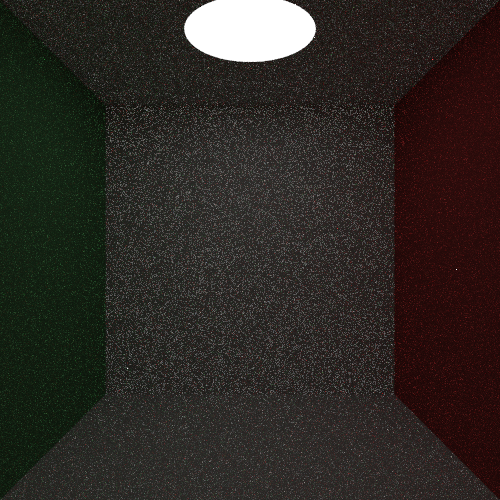
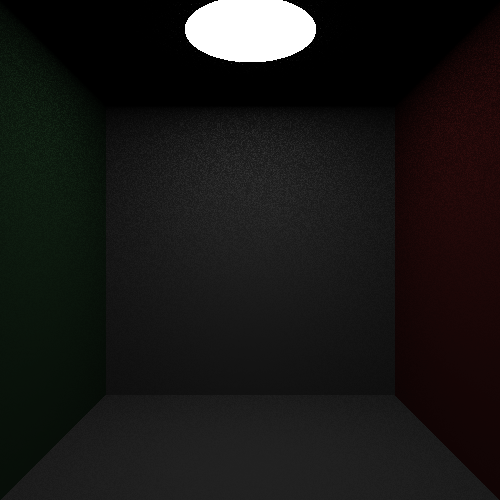
FIX: a pdf bug in direct integrator. wrongly using area pdf as solid angle pdf

diff --git a/src/integrator/path_integrator.rs b/src/integrator/path_integrator.rs
@@ -22,51 +22,44 @@ impl Integrator for PathIntegrator {
         let mut throughput = Spectrum::new(1.0, 1.0, 1.0);
         let mut radiance = Spectrum::new(0.0, 0.0, 0.0);
         let mut specular = false;
+        let mut count = 0;
 
         for depth in 0..self.max_depth {
             if let Some(isect) = scene.intersect(ray) {
-                // first checks if it has directly hit the light
-                if depth == 0 && isect.hit_light {
-                    radiance += isect.radiance.unwrap();
-                    break;
-                }
-
-                // hit the light
-                if specular && isect.hit_light {
-                    radiance += throughput * isect.radiance.unwrap();
-                    break;
-                }
-
+                // hit the light after shot from the camera or leaving a specular vertex
                 if isect.hit_light {
+                    if depth == 0 || specular {
+                        radiance += throughput * isect.radiance.unwrap();
+                    }
                     break;
                 }
 
-                // then check if it has hit a medium
                 if let Some(mat) = &isect.material {
+                    // check if it's specular vertex
                     specular = mat.is_specular();
                     let bsdf = mat.compute_scattering(&isect);
                     // sample lights to estimate the radiance value
                     if !specular {
                         let light = scene.lightlist.importance_sample_light(Point2::new(random(), random())).0;
-                        // sample once for each light in the scene
-                        let (incoming_r, sample_p, pdf) = light.sample_li(&isect, Point2::new(random(), random()));
+                        let (li, sample_p, pdf) = light.sample_li(&isect, Point2::new(random(), random()));
                         // visibility testing for wi
-                        if pdf > 0.0 && !incoming_r.is_black() && visibility_test(&isect, sample_p, scene) {
+                        if pdf > 0.0 && !li.is_black() && visibility_test(&isect, sample_p, scene) {
                             let wi = (sample_p - isect.geo.p).normalize();
-                            let brdf_value = bsdf.f(-ray.d.normalize(), wi);
+                            let rho = bsdf.f(-ray.d.normalize(), wi);
                             let cosine = wi.dot(isect.geo.n).abs();
                             
-                            radiance += incoming_r * throughput * brdf_value * cosine / pdf; 
+                            radiance += li * throughput * rho * cosine / pdf; 
+                            count += 1;
                         } 
                     }
 
                     // sample the bsdf to get the scattered ray
                     let sample: Point2<f64> = Point2::new(random(), random());
-                    let (brdf_value, wi, pdf) = bsdf.sample_f(-ray.d.normalize(), sample);
+                    let (rho, wi, pdf) = bsdf.sample_f(-ray.d.normalize(), sample);
 
                     // update the throughput for next iteration, spawn the new ray
                     let cosine = wi.dot(isect.geo.n).abs();
-                    throughput *= brdf_value * cosine / pdf;
+                    throughput *= rho * cosine / pdf;
                     *ray = Ray::new(isect.geo.p, wi, ray.time, INFINITY);
                 } else {
                     // hit the medium
@@ -75,13 +68,13 @@ impl Integrator for PathIntegrator {
                 
             } else {
                 // does not hit the scene
-
                 radiance += Spectrum::skyblue(ray.d.y) * throughput;
+                count += 1;
                 break;
             }
         }
 
-        radiance
+        radiance / count as f64
     }
 
 }

diff --git a/src/main.rs b/src/main.rs
@@ -38,7 +38,7 @@ use std::thread;
 pub struct WorldSetting {
     pub n_thread: usize, 
     pub n_sample: usize,
-    pub integrator: Box<dyn Integrator>,
+    pub integrator: Arc<Box<dyn Integrator>>,
 }
 
 impl WorldSetting {
@@ -46,7 +46,7 @@ impl WorldSetting {
         Self {
             n_thread: 1, 
             n_sample: 1,
-            integrator: Box::new(DirectIntegrator::new()),
+            integrator: Arc::new(Box::new(DirectIntegrator::new())),
         }
     }
 }
@@ -62,8 +62,7 @@ fn main() {
 
     // render
     let s_render = std::time::Instant::now();
-    let integrator = Box::new(PathIntegrator::new(20));
-    render(integrator, camera, scene, &setting);
+    render(setting.integrator.clone(), camera, scene, &setting);
 
     let render_cost = s_render.elapsed().as_millis();
     println!("RENDER COST: {} secs", (render_cost as f64) / 1000.0);
@@ -71,15 +70,14 @@ fn main() {
 
 
 
-fn render(integrator: Box<dyn Integrator>, camera: PerspectiveCamera, scene: Scene, setting: &WorldSetting) {
+fn render(integrator: Arc<Box<dyn Integrator>>, camera: PerspectiveCamera, scene: Scene, setting: &WorldSetting) {
     let n_thread = setting.n_thread;
-    let n_sample = setting.n_sample;
+    // let n_sample = setting.n_sample;
     let camera = Arc::new(camera);
 
     let res = camera.film.resolution;
     let (width, height) = (res.x, res.y);
 
-    let integrator = Arc::new(integrator);
     let scene = Arc::new(scene);
 
     let mut handlers = Vec::new();
@@ -104,16 +102,11 @@ fn render(integrator: Box<dyn Integrator>, camera: PerspectiveCamera, scene: Sce
             for i in 0..height {
                 for j in 0..width {
                     // first render the upper left pixel, then go rightwards and downwards
-                    let mut radiance = Spectrum::new(0.0, 0.0, 0.0);
                     
-                    for _ in 0..n_sample {
-                        let sample = CameraSample::new(Point2::new(j as f64 + random::<f64>(), i as f64 + random::<f64>()), 0.0);
-                        let mut r = camera.generate_ray(sample);
+                    let sample = CameraSample::new(Point2::new(j as f64, i as f64), 0.0);
+                    let mut r = camera.generate_ray(sample);
 
-                        radiance += int.li(&mut r, &scene);
-                    }
-
-                    radiance /= n_sample as f64 * n_thread as f64;
+                    let radiance = int.li(&mut r, &scene);
 
                     camera.film.record(i, j, radiance.tone_mapping());
                 }

diff --git a/src/integrator/direct_integrator.rs b/src/integrator/direct_integrator.rs
@@ -28,16 +28,18 @@ impl Integrator for DirectIntegrator {
                             let u = Point2::new(random::<f64>(), random::<f64>());
                             let (light, light_pdf) = scene.lightlist.importance_sample_light(u);
                             let p_light = light.uniform_sample_point(u);
-                            let light_pdf = light_pdf / p_light.pdf;
+                            let light_pdf = light_pdf * p_light.pdf;
 
                             let wi = (p_light.position - isect.geo.p).normalize();
                             let wo = -ray.d.normalize();
-                            let cosine = isect.geo.n.dot(wi);
+                            let cos_theta = isect.geo.n.dot(wi);
+                            let cos_alpha = wi.dot(p_light.normal).abs();
+                            let r2 = (p_light.position - isect.geo.p).magnitude2();
                             let bsdf = mat.compute_scattering(&isect);
 
                             let mut lo = Spectrum::new(0.0, 0.0, 0.0);
                             if light_pdf > 0.0 && !p_light.le.is_black() && visibility_test(&isect, p_light.position, scene) {
-                                lo = bsdf.f(wo, wi) * p_light.le * cosine / light_pdf;
+                                lo = bsdf.f(wo, wi) * p_light.le * cos_theta * cos_alpha / (light_pdf * r2);
                             }
 
                             lo

diff --git a/src/parser.rs b/src/parser.rs
@@ -479,8 +479,8 @@ fn parse_setting(sampler: JsonValue, integrator: JsonValue) -> WorldSetting {
     match integrator_tp {
         JsonValue::Short(tp) => {
             match tp.as_str() {
-                "path" => setting.integrator = Box::new(PathIntegrator::new(20)),
-                "direct" => setting.integrator = Box::new(DirectIntegrator::new()),
+                "path" => setting.integrator = Arc::new(Box::new(PathIntegrator::new(20))),
+                "direct" => setting.integrator = Arc::new(Box::new(DirectIntegrator::new())),
                 // "wrsdirect" => setting.integrator = Box::new,
                 _ => {
                     let msg = format!("no type {} for integrator", tp);
